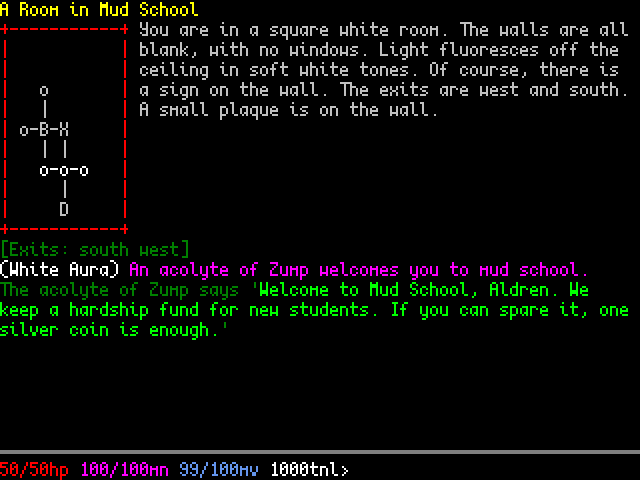
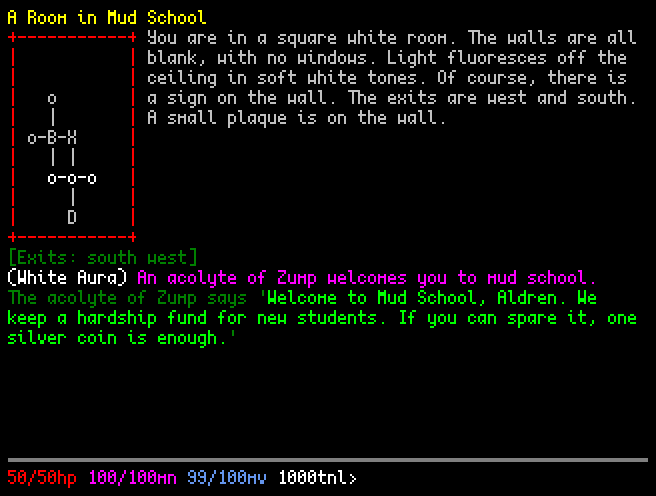
docs(readme): pad screenshots, make the release zip the deploy path
render_greeting.py grew a --border flag (default 4 device px, background
coloured) because screen-edge text ran flush to the image edge in the
README renders. --border 0 restores a pure device capture. Regenerated
the four docs/img screens.

The deploy section now leads with build_dist.py --zip: the Connectivity
Kit takes the zip directly, and a single transfer has much less room for
an individual file to corrupt or silently fail than copying the folder
across file by file. Loose-folder builds are still one flag away.

Changed region(s): [[0.0, 0.0, 1.0, 0.7188], [0.0, 0.9062, 1.0, 1.0]]

diff --git a/tools/render_greeting.py b/tools/render_greeting.py
@@ -21,7 +21,7 @@ import argparse
 import sys
 from pathlib import Path
 
-from PIL import Image
+from PIL import Image, ImageOps
 
 ROOT = Path(__file__).resolve().parent.parent
 sys.path.insert(0, str(ROOT / "src"))
@@ -252,6 +252,10 @@ def main():
     screens.add_argument("--room", action="store_true")
     screens.add_argument("--score", action="store_true")
     screens.add_argument("--macro", action="store_true")
+    parser.add_argument("--border", type=int, default=4,
+                        help="background-coloured margin in device pixels, so "
+                             "screen-edge text does not touch the image edge "
+                             "(--border 0 for a pure device capture)")
     args = parser.parse_args()
     name = ("room.png" if args.room else "score.png" if args.score else
             "macro.png" if args.macro else "greeting.png")
@@ -261,6 +265,8 @@ def main():
                      score_scene() if args.score else
                      macro_scene() if args.macro else (LINES, ""))
     img = render(lines, args.font, status)
+    if args.border:
+        img = ImageOps.expand(img, border=args.border, fill=BG)
     if SCALE != 1:
         img = img.resize((img.width * SCALE, img.height * SCALE), Image.NEAREST)
     img.save(out)

diff --git a/README.md b/README.md
@@ -33,7 +33,7 @@ PC: Python 3, no runtime dependencies. The dist build also needs `python-minifie
 
 ```
 python run_source.py   # run src/ directly, no build
-python run_dist.py      # build the minified dist first, then run it
+python run_dist.py     # build the minified dist first, then run it
 ```
 
 `run_source.py` for everyday use. `run_dist.py` builds `dist/` and runs the minified copy, catching anything minification broke.
@@ -43,11 +43,15 @@ Saves live in the repo root (`primesud.sav`, gitignored), shared between both ru
 ## Deploying to a calculator
 
 ```
-python tools/build_dist.py           # build dist/primesud.hpappdir
-python tools/build_dist.py --check   # also verify symbols + area data survived
+python tools/build_dist.py --zip v1.0.0           # build + pack the release zip
+python tools/build_dist.py --check --zip v1.0.0   # also verify symbols + area data survived
 ```
 
-Regenerates derived data (areas, world tables, mob index, help), then writes to `dist/primesud.hpappdir/`. Copy that folder over with the Connectivity Kit.
+Regenerates derived data (areas, world tables, mob index, help), writes `dist/primesud.hpappdir/`, then packs it as `dist/PrimeSUD-v1.0.0-hpprime.zip`.
+
+Send that zip to the calculator with the Connectivity Kit, which unpacks the app folder itself. Prefer this over copying the folder across file by file -- one transfer leaves far less room for an individual file to corrupt or silently fail to send. Drop `--zip` if you do want the loose `dist/primesud.hpappdir/` folder.
+
+To skip the build entirely, download the zip from the [latest release](https://github.com/ZechyW/primesud/releases/latest).
 
 The app runs on both G1 and G2 Primes, but it is large and requests more runtime heap than the default 1 MB.
 
